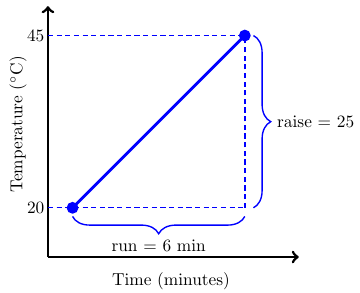
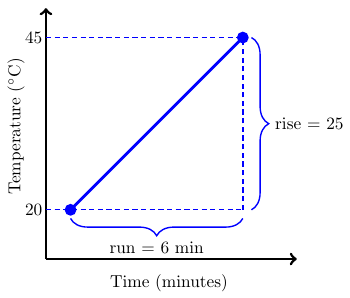
Fixed typo in figure

diff --git a/tex/rateofchange2.tex b/tex/rateofchange2.tex
@@ -25,7 +25,7 @@
 \draw[decoration={brace,mirror,raise=5pt, amplitude=10},decorate, draw=blue, thick] (.5,1) -- node[below=15pt] {run = 6 min} (4,1);
 \draw [densely dashed, draw=blue, thick] (4,1) -- (4,4.5);
 
-\draw[decoration={brace,mirror,raise=5pt, amplitude=10},decorate, draw=blue, thick] (4,1) -- node[right=15pt] {raise = 25} (4,4.5);
+\draw[decoration={brace,mirror,raise=5pt, amplitude=10},decorate, draw=blue, thick] (4,1) -- node[right=15pt] {rise = 25} (4,4.5);
 \draw [densely dashed, draw=blue, thick] (0,1) -- (4,1);
 %\node[] at (.6,.6) {(12,20)};
 %\node[] at (4,4.75) {(12,20)};
